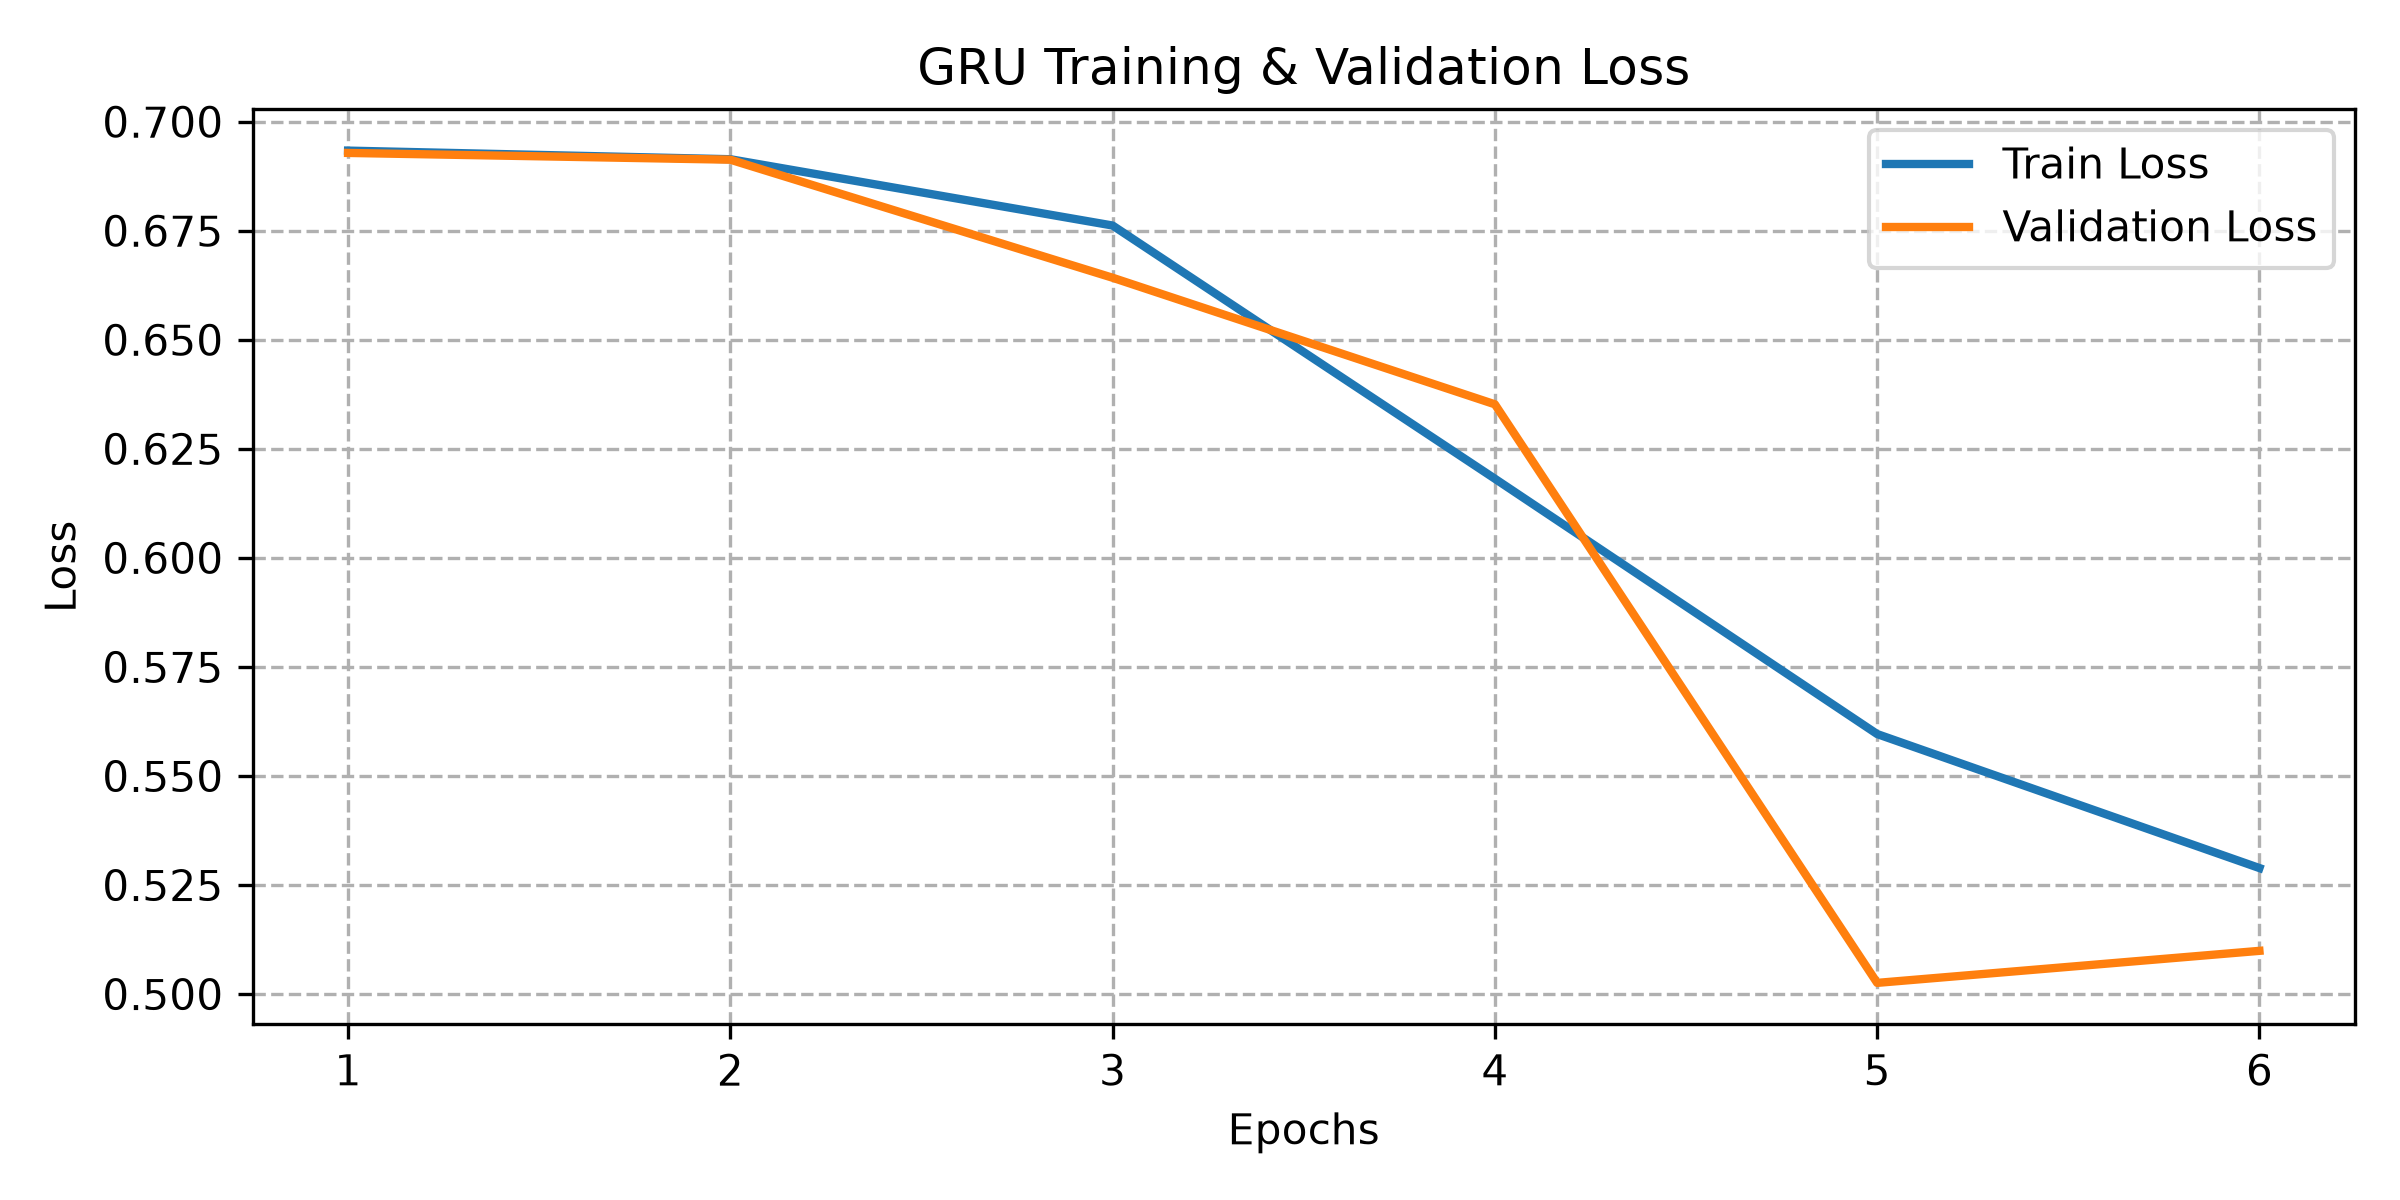
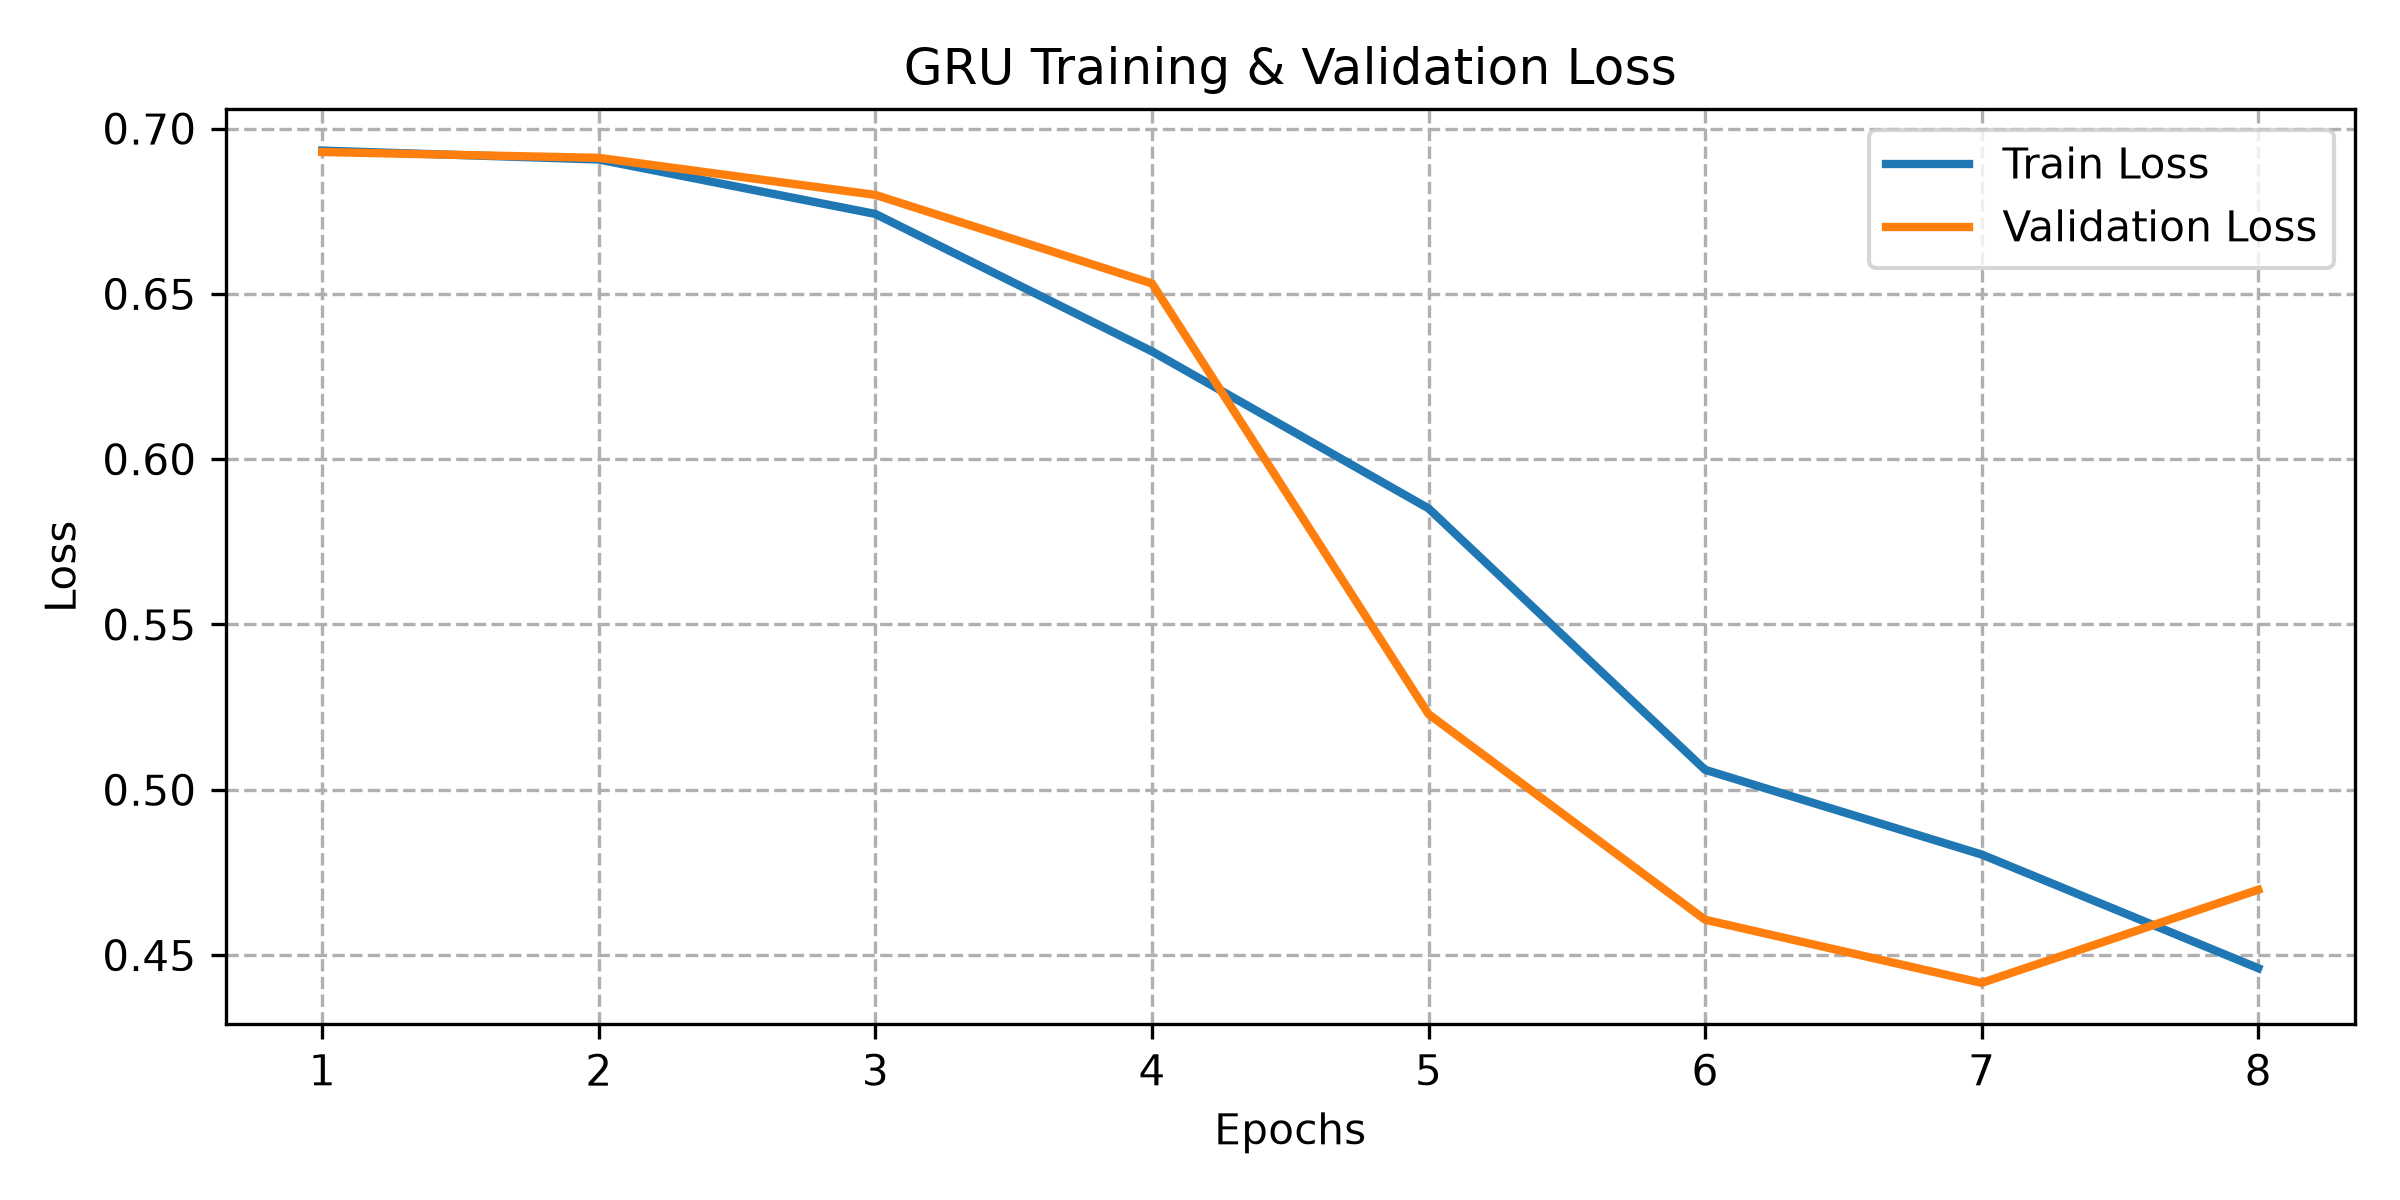
update

diff --git a/IMDB_RNN.py b/IMDB_RNN.py
@@ -14,20 +14,16 @@ from keras.layers import Embedding, GRU, Dense, Dropout, SpatialDropout1D
 from keras.preprocessing.sequence import pad_sequences
 from keras.callbacks import EarlyStopping, ModelCheckpoint
 
-
-
 # =====================================================
 # 0. 固定随机种子：尽量保证每次运行结果可复现
 # =====================================================
-SEED = 42
-random.seed(SEED)
-np.random.seed(SEED)
-tf.random.set_seed(SEED)
-
-# 可选：进一步提高可复现性
-os.environ["PYTHONHASHSEED"] = str(SEED)
-
-
+# SEED = 42
+# random.seed(SEED)
+# np.random.seed(SEED)
+# tf.random.set_seed(SEED)
+#
+# # 可选：进一步提高可复现性
+# os.environ["PYTHONHASHSEED"] = str(SEED)
 
 # =====================================================
 # 1. 参数配置
@@ -43,7 +39,6 @@ EPOCHS = 10              # 设置大一点，交给 EarlyStopping 自动停止
 # 2. 加载并预处理 IMDB 数据集
 # =====================================================
 
-
 print("正在加载 IMDB 文本数据集...")
 
 from keras.layers import Input
@@ -57,7 +52,6 @@ model = Sequential([
     Dense(1, activation="sigmoid")
 ])
 
-
 (x_train, y_train), (x_test, y_test) = imdb.load_data(num_words=MAX_FEATURES)
 
 # 将不同长度的评论统一处理成固定长度
@@ -67,35 +61,34 @@ x_test = pad_sequences(x_test, maxlen=MAX_LEN, padding="post", truncating="post"
 print("训练集形状:", x_train.shape)
 print("测试集形状:", x_test.shape)
 
-
 # =====================================================
 # 3. 构建模型
-#    GRU 比 SimpleRNN 更适合处理较长文本序列
+#    GRU 比 SimpleRNN 更适合处理较长文本序列,能缓解普通 RNN 容易遗忘前文信息的问题。
 # =====================================================
+#模型主要包括五层：
 model = Sequential([
-    # 将整数词 ID 映射为稠密词向量
+    # Embedding层:把 IMDB 中的词编号转成 64 维向量
     Embedding(
         input_dim=MAX_FEATURES,
         output_dim=EMBED_DIM,
     ),
 
-    # 对词向量做整体 dropout，减少模型依赖某些特定词
+    # SpatialDropout1D:随机丢弃部分词向量特征，减少模型过度依赖某些词。
     SpatialDropout1D(0.25),
 
-    # GRU 层：比 SimpleRNN 更能捕捉长距离上下文信息
+    # GRU 层：比 SimpleRNN 更能捕捉长距离上下文信息,用于学习评论文本中的上下文关系
     GRU(
         units=64,
         dropout=0.3,
         recurrent_dropout=0.2
     ),
 
-    # 全连接前再做 dropout，进一步缓解过拟合
+    #  Dropout层:全连接前再做 dropout，进一步缓解过拟合
     Dropout(0.4),
 
-    # 二分类输出层，sigmoid 输出正面评论概率
+    # 二分类输出层，使用 sigmoid 输出一个 0 到 1 之间的概率，接近 1 表示正面评论，接近 0 表示负面评论。
     Dense(1, activation="sigmoid")
 ])
-
 
 # =====================================================
 # 4. 编译模型
@@ -110,7 +103,6 @@ model.compile(
 
 print("\n--- 模型结构摘要 ---")
 model.summary()
-
 
 # =====================================================
 # 5. 回调函数：防止过拟合
@@ -148,7 +140,6 @@ history = model.fit(
     verbose=1
 )
 
-
 # =====================================================
 # 7. 在测试集上评估最终模型
 # =====================================================
@@ -158,7 +149,6 @@ print("\n" + "=" * 45)
 print(f"测试集 Loss: {test_loss:.4f}")
 print(f"测试集 Accuracy: {test_acc:.4f}")
 print("=" * 45)
-
 
 # =====================================================
 # 8. 绘制训练曲线
@@ -182,7 +172,6 @@ plt.savefig("imdb_gru_loss.png", dpi=300)
 plt.close()
 
 print("损失曲线图已保存为 imdb_gru_loss.png")
-
 
 # ---------- Accuracy 曲线 ----------
 plt.figure(figsize=(8, 4))